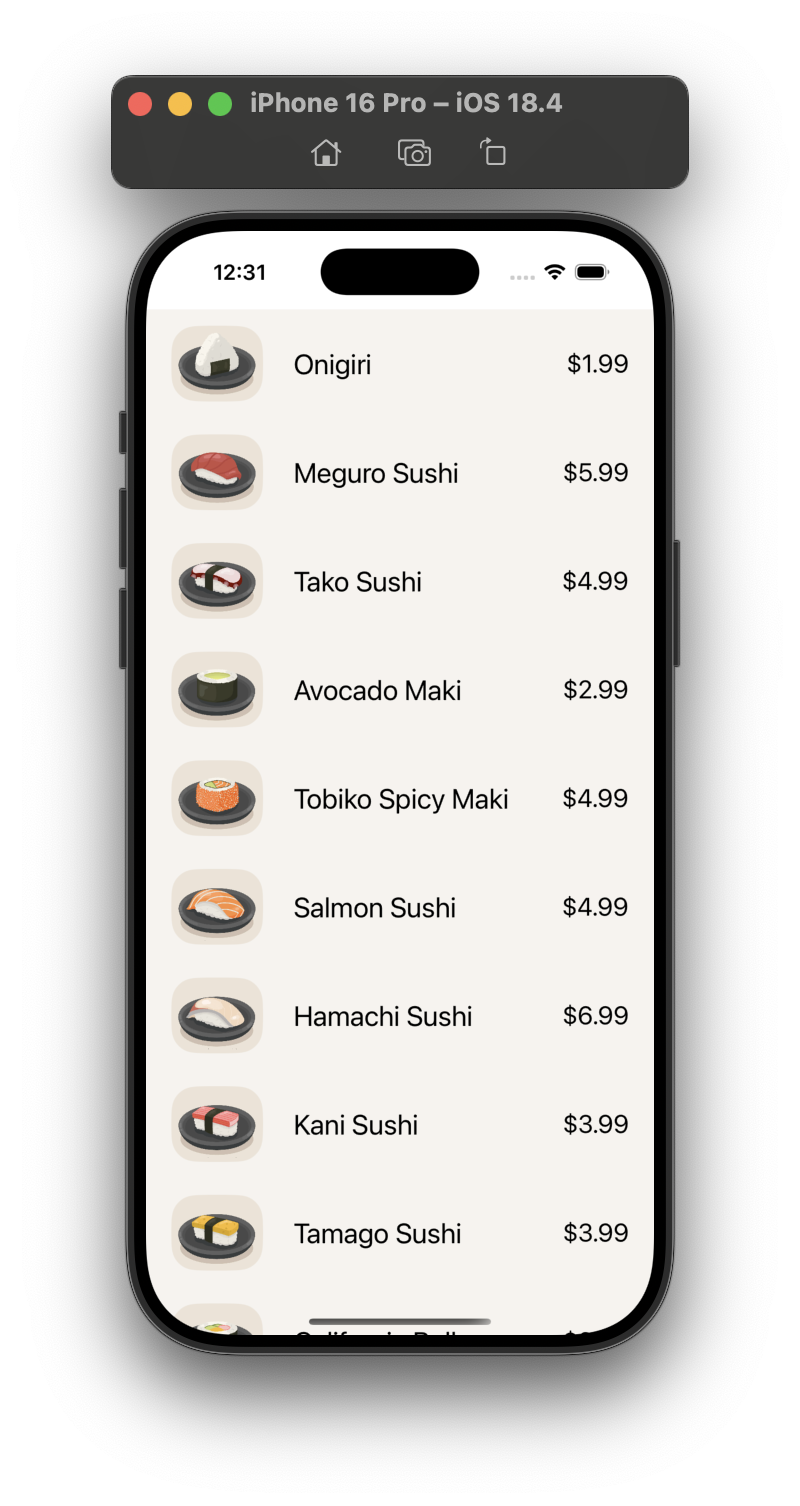
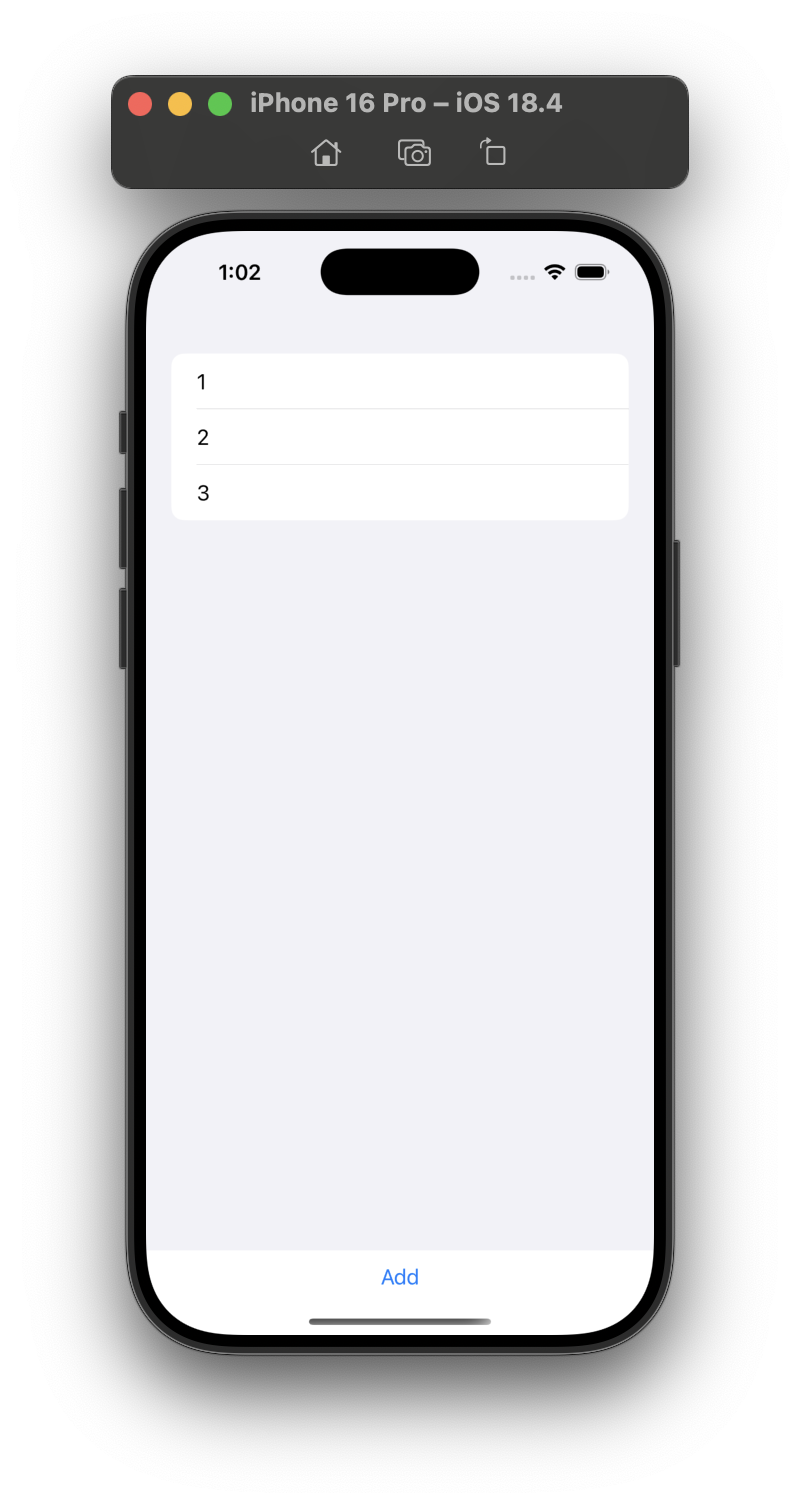
Challenge

diff --git a/Test/ContentView.swift b/Test/ContentView.swift
@@ -1,75 +1,39 @@
-//
-//  ContentView.swift
-//  Test
-//
-//  Created by Piyush Thummar on 22/04/25.
-//
+/*
+
+ Build a UI with a List and a Button below it.
+
+ Declare a property that contains an array of 5 strings. These can be any 5 words you want.
+ 
+ Each time the button is tapped, choose a random word from the array and put it in the list.
+
+ The number of items in the list should grow as you tap the button.
+ 
+*/
+
+
 
 import SwiftUI
 
 struct MenuView: View {
     
-    var menuItems: [MenuItem] = [
-        
-        MenuItem(name: "Onigiri", price: "1.99", imageName: "onigiri"),
-        MenuItem(name: "Meguro Sushi", price: "5.99", imageName:"meguro-sushi"),
-        MenuItem(name: "Tako Sushi", price: "4.99", imageName: "tako-sushi"),
-        MenuItem(name: "Avocado Maki", price: "2.99", imageName: "avocado-maki"),
-        MenuItem(name: "Tobiko Spicy Maki", price: "4.99", imageName: "tobiko-spicy-maki"),
-        MenuItem(name: "Salmon Sushi", price: "4.99", imageName: "salmon-sushi"),
-        MenuItem(name: "Hamachi Sushi", price: "6.99", imageName: "hamachi-sushi"),
-        MenuItem(name: "Kani Sushi", price: "3.99", imageName: "kani-sushi"),
-        MenuItem(name: "Tamago Sushi", price: "3.99", imageName: "tamago-sushi"),
-        MenuItem(name: "California Roll", price: "3.99", imageName: "california-roll"),
-        MenuItem(name: "Shrimp Sushi", price: "3.99", imageName: "shrimp-sushi"),
-        MenuItem(name: "Ikura Sushi", price: "5.99", imageName: "ikura-sushi" )
-        
-    ]
-    
-    
+    @State var items: [Int] = []
     
     var body: some View {
         
-        
-        List(menuItems){ item in
+        List(items, id: \.self) { item in
             
-            
-            // Horizontal stack
-            HStack{
-
-                // Image
-                Image(item.imageName)
-                    .resizable()
-                    .aspectRatio(contentMode: .fit)
-                    .frame(height: 60)
-                    .cornerRadius(20)
-                    .padding(.trailing)
-                
-                
-                // Title (name)
-                Text(item.name)
-                    .font(.title2)
-                
-                
-                // Spacer
-                Spacer()
-                
-                
-                // Price on the right
-                Text("$" + item.price)
-                    .font(.title3)
-                
-                
-            }
-            .listRowSeparator(.hidden)
-            .listRowBackground(
-                Color(.brown)
-                    .opacity(0.1)
-            )
+            Text("\(item)")
             
         }
-        .listStyle(.plain)
-    
+        
+        Button{
+            
+            items.append(items.count + 1)
+            
+        } label: {
+            Text("Add")
+        }
+        
     }
 }
 

diff --git a/README.md b/README.md
@@ -1,2 +1,2 @@
 <img src="https://github.com/PiyushJT/iOS-Notes/raw/refs/heads/main/ss.png" alt="Screen Shot" width="300"/>
-<img src="https://github.com/PiyushJT/iOS-Notes/raw/refs/heads/main/rec.gif" alt="Screen Shot" width="300"/>=
+<img src="https://github.com/PiyushJT/iOS-Notes/raw/refs/heads/main/rec.gif" alt="Screen Shot" width="300"/>
